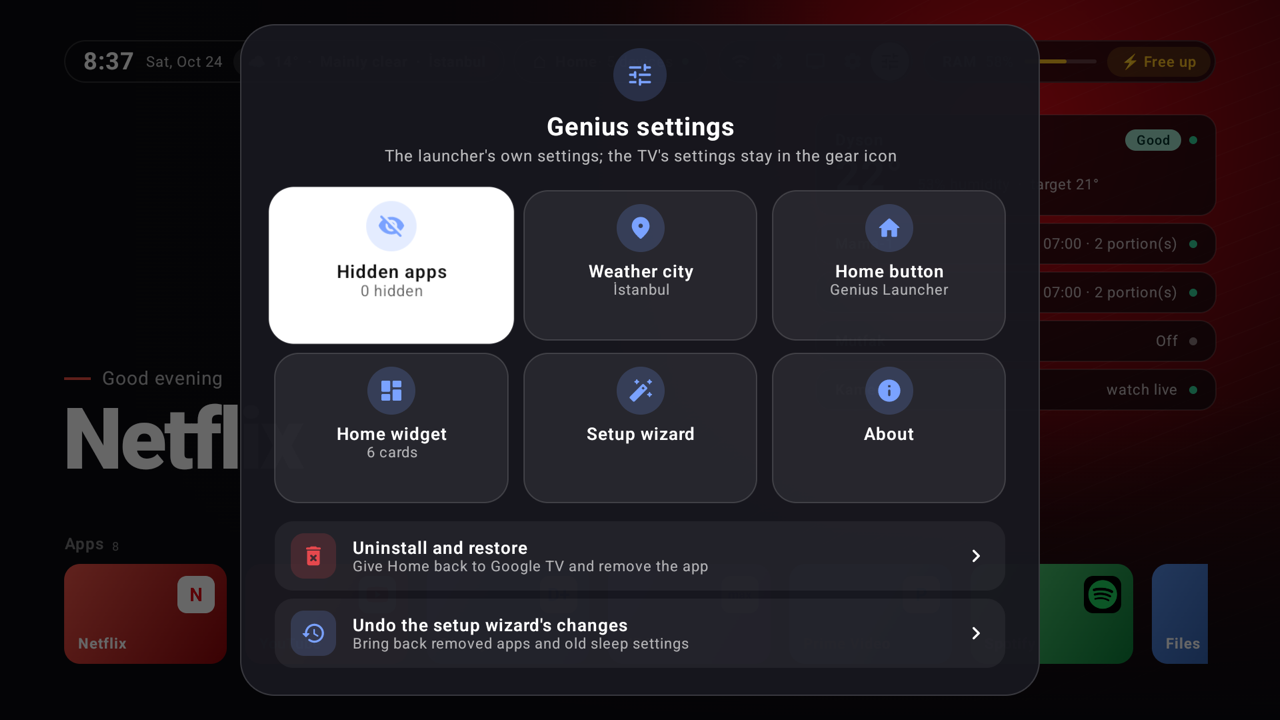
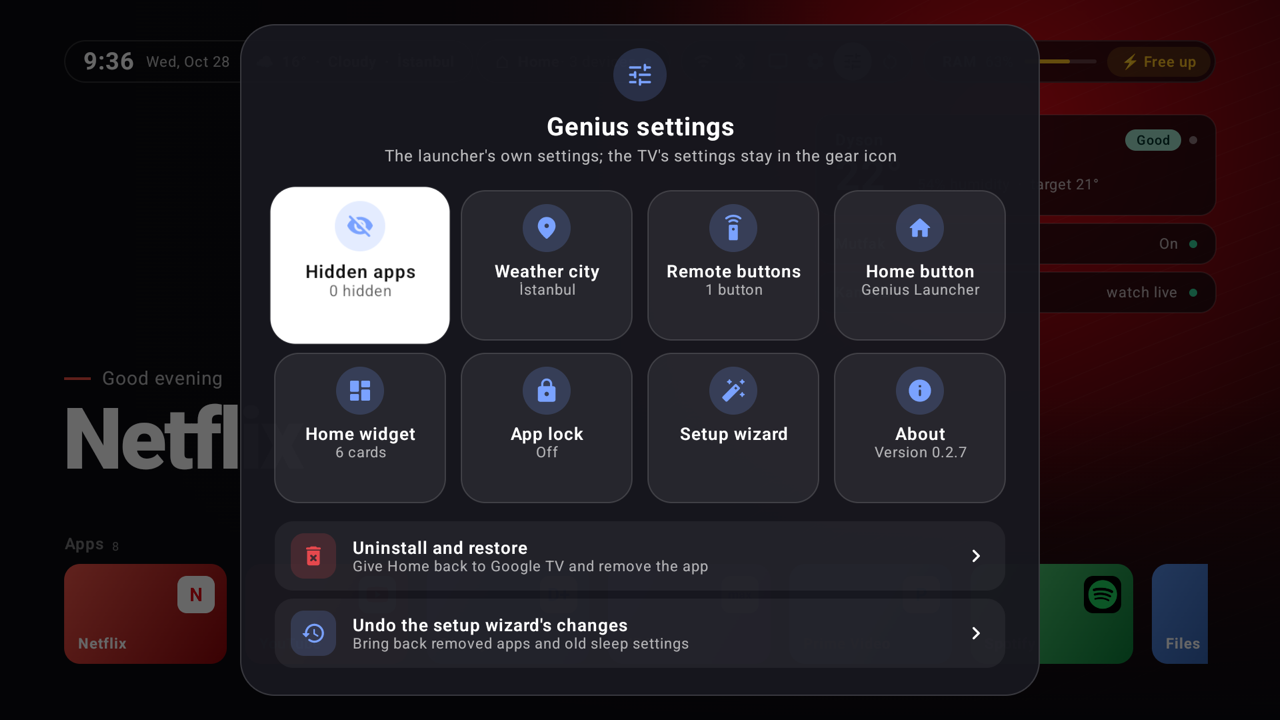
docs: refresh screenshots without the pet feeders
Home, smart home, add device and Genius settings in Turkish and English, taken
in demo mode. The settings card now reads "1 button" instead of "1 buttons".

diff --git a/tv/src/main/java/dev/evim/tv/ui/SettingsPanel.kt b/tv/src/main/java/dev/evim/tv/ui/SettingsPanel.kt
@@ -44,6 +44,7 @@ import androidx.compose.ui.focus.FocusRequester
 import androidx.compose.ui.focus.focusRequester
 import androidx.compose.ui.graphics.Color
 import androidx.compose.ui.platform.LocalContext
+import androidx.compose.ui.res.pluralStringResource
 import androidx.compose.ui.res.stringResource
 import androidx.compose.ui.text.font.FontWeight
 import androidx.compose.ui.unit.dp
@@ -122,7 +123,7 @@ fun SettingsDialog(
                         ChoiceCard(
                             Icons.Rounded.SettingsRemote,
                             stringResource(R.string.keys_title),
-                            if (vm.keyMappings.isEmpty()) stringResource(R.string.keys_none) else stringResource(R.string.keys_count, vm.keyMappings.size),
+                            if (vm.keyMappings.isEmpty()) stringResource(R.string.keys_none) else pluralStringResource(R.plurals.keys_count, vm.keyMappings.size, vm.keyMappings.size),
                             Modifier.weight(1f),
                         ) { go(Step.KEYS) }
                         ChoiceCard(Icons.Rounded.Home, stringResource(R.string.settings_home), home, Modifier.weight(1f)) {
